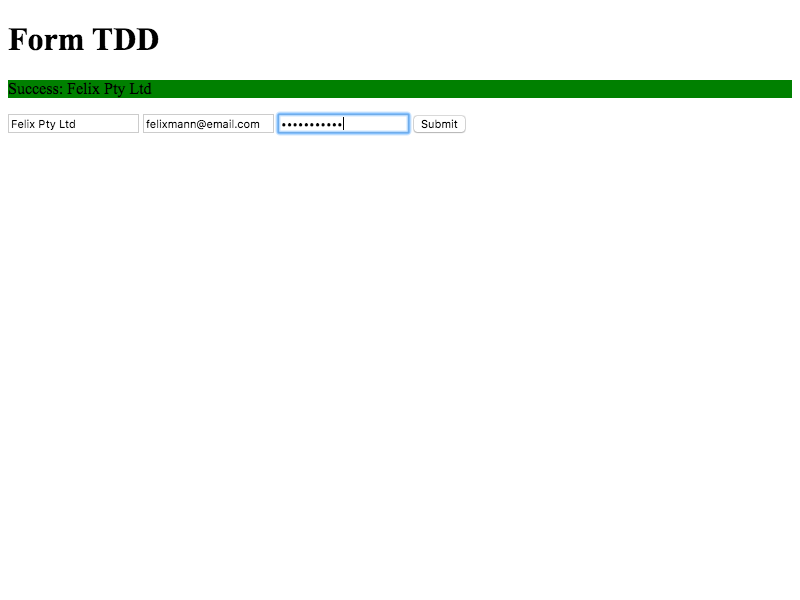
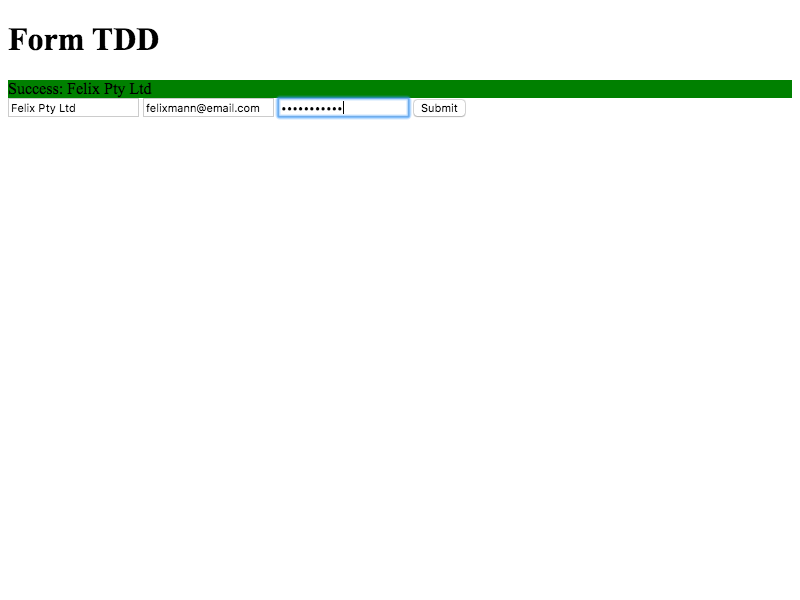
Add new edge case

Changed region(s): [[0.0, 0.15, 0.5938, 0.24]]

diff --git a/src/public/js/bundle.js b/src/public/js/bundle.js
@@ -1,4 +1,4 @@
-!function(e){var t={};function n(r){if(t[r])return t[r].exports;var i=t[r]={i:r,l:!1,exports:{}};return e[r].call(i.exports,i,i.exports,n),i.l=!0,i.exports}n.m=e,n.c=t,n.d=function(e,t,r){n.o(e,t)||Object.defineProperty(e,t,{enumerable:!0,get:r})},n.r=function(e){"undefined"!=typeof Symbol&&Symbol.toStringTag&&Object.defineProperty(e,Symbol.toStringTag,{value:"Module"}),Object.defineProperty(e,"__esModule",{value:!0})},n.t=function(e,t){if(1&t&&(e=n(e)),8&t)return e;if(4&t&&"object"==typeof e&&e&&e.__esModule)return e;var r=Object.create(null);if(n.r(r),Object.defineProperty(r,"default",{enumerable:!0,value:e}),2&t&&"string"!=typeof e)for(var i in e)n.d(r,i,function(t){return e[t]}.bind(null,i));return r},n.n=function(e){var t=e&&e.__esModule?function(){return e.default}:function(){return e};return n.d(t,"a",t),t},n.o=function(e,t){return Object.prototype.hasOwnProperty.call(e,t)},n.p="",n(n.s=1)}([function(e,t){e.exports=function(){throw new Error("define cannot be used indirect")}},function(e,t,n){n(2)()},function(e,t,n){let r=n(3);e.exports=function(){let e=document.querySelector('form[name="myForm"]'),t=document.querySelector("#flash-success"),n=document.querySelector("#flash-error");console.log("woohoo"),e.addEventListener("submit",e=>{e.preventDefault();let i=e.target.company.value||null,o=e.target.email.value,s=e.target.password.value,a=r({company:i,email:o,password:s});if(a.length>0){let e=`\n      <ul>\n        ${a.map(e=>`<li>${e}</li>`).join("")}\n      </ul>\n      `;n.innerHTML=e}else t.innerText=`Success: ${i}`})}},function(e,t,n){let r=n(4);e.exports=e=>{let t=r(e,{company:{presence:{message:"company name required"}},email:{email:{message:e=>`${e} is not a valid email`}},password:{length:{minimum:7,message:"password must be min 7 characters"}}},{fullMessages:!1});if(!t)return!0;let n=[];for(var i in t)n.push(t[i][0]);return n}},function(e,t,n){(function(e){
+!function(e){var t={};function n(r){if(t[r])return t[r].exports;var i=t[r]={i:r,l:!1,exports:{}};return e[r].call(i.exports,i,i.exports,n),i.l=!0,i.exports}n.m=e,n.c=t,n.d=function(e,t,r){n.o(e,t)||Object.defineProperty(e,t,{enumerable:!0,get:r})},n.r=function(e){"undefined"!=typeof Symbol&&Symbol.toStringTag&&Object.defineProperty(e,Symbol.toStringTag,{value:"Module"}),Object.defineProperty(e,"__esModule",{value:!0})},n.t=function(e,t){if(1&t&&(e=n(e)),8&t)return e;if(4&t&&"object"==typeof e&&e&&e.__esModule)return e;var r=Object.create(null);if(n.r(r),Object.defineProperty(r,"default",{enumerable:!0,value:e}),2&t&&"string"!=typeof e)for(var i in e)n.d(r,i,function(t){return e[t]}.bind(null,i));return r},n.n=function(e){var t=e&&e.__esModule?function(){return e.default}:function(){return e};return n.d(t,"a",t),t},n.o=function(e,t){return Object.prototype.hasOwnProperty.call(e,t)},n.p="",n(n.s=1)}([function(e,t){e.exports=function(){throw new Error("define cannot be used indirect")}},function(e,t,n){n(2)()},function(e,t,n){let r=n(3);e.exports=function(){let e=document.querySelector('form[name="myForm"]'),t=document.querySelector("#flash-success"),n=document.querySelector("#flash-error");console.log("woohoo"),e.addEventListener("submit",e=>{e.preventDefault();let i=e.target.company.value||null,o=e.target.email.value,s=e.target.password.value,a=r({company:i,email:o,password:s});if(a.length>0){let e=`\n      <ul>\n        ${a.map(e=>`<li>${e}</li>`).join("")}\n      </ul>\n      `;n.innerHTML=e}else n.innerHTML="",t.innerText=`Success: ${i}`})}},function(e,t,n){let r=n(4);e.exports=e=>{let t=r(e,{company:{presence:{message:"company name required"}},email:{email:{message:e=>`${e} is not a valid email`}},password:{length:{minimum:7,message:"password must be min 7 characters"}}},{fullMessages:!1});if(!t)return!0;let n=[];for(var i in t)n.push(t[i][0]);return n}},function(e,t,n){(function(e){
 /*!
  * validate.js 0.13.1
  *

diff --git a/__test__/ui/form.spec.js b/__test__/ui/form.spec.js
@@ -87,4 +87,36 @@ describe('Form', () => {
     expect(errorMsg).toMatch(/felixemail.com is not a valid email/)
     expect(backgroundColor).toBe('red')
   })
+
+  it('should clear error messages on success', async () => {
+    await expect(page).toFillForm('form[name="myForm"]', {
+      email: 'felix@email.com',
+      password: '12345678910'
+    })
+    await page.keyboard.press('Enter')
+    let errorMsg = await page.$eval('#flash-error', el => el.innerText)
+    let errorBackgroundColor = await page.$eval('#flash-error', el => el.style.backgroundColor)
+    expect(errorMsg).toMatch(/company name required/)
+    expect(errorBackgroundColor).toBe('red')
+
+    await expect(page).toFillForm('form[name="myForm"]', {
+      company: 'Felix Pty Ltd',
+      email: 'felix@email.com',
+      password: '12345678910'
+    })
+    await page.keyboard.press('Enter')
+
+    await page.screenshot({
+      path: __dirname + '/../screenshots/validateSuccessAfterError.png'
+    })
+
+    let successMsg = await page.$eval('#flash-success', el => el.innerText)
+    let successBackgroundColor = await page.$eval('#flash-success', el => el.style.backgroundColor)
+    expect(successMsg).toBe('Success: Felix Pty Ltd')
+    expect(successBackgroundColor).toBe('green')
+
+    let newErrorMsg = await page.$eval('#flash-error', el => el.innerText)
+    expect(newErrorMsg).toBe("")    
+  })
+
 })

diff --git a/src/components/form/index.js b/src/components/form/index.js
@@ -5,7 +5,7 @@ module.exports = function(){
   let $flashSuccess = document.querySelector('#flash-success')
   let $flashError = document.querySelector('#flash-error')
   console.log('woohoo');
-  
+
   $form.addEventListener('submit', (e) => {
     e.preventDefault()
     let company = e.target.company.value || null
@@ -27,6 +27,7 @@ module.exports = function(){
       $flashError.innerHTML = HTML
       return
     }
+    $flashError.innerHTML = ""
     $flashSuccess.innerText = `Success: ${company}`
   })
 }
